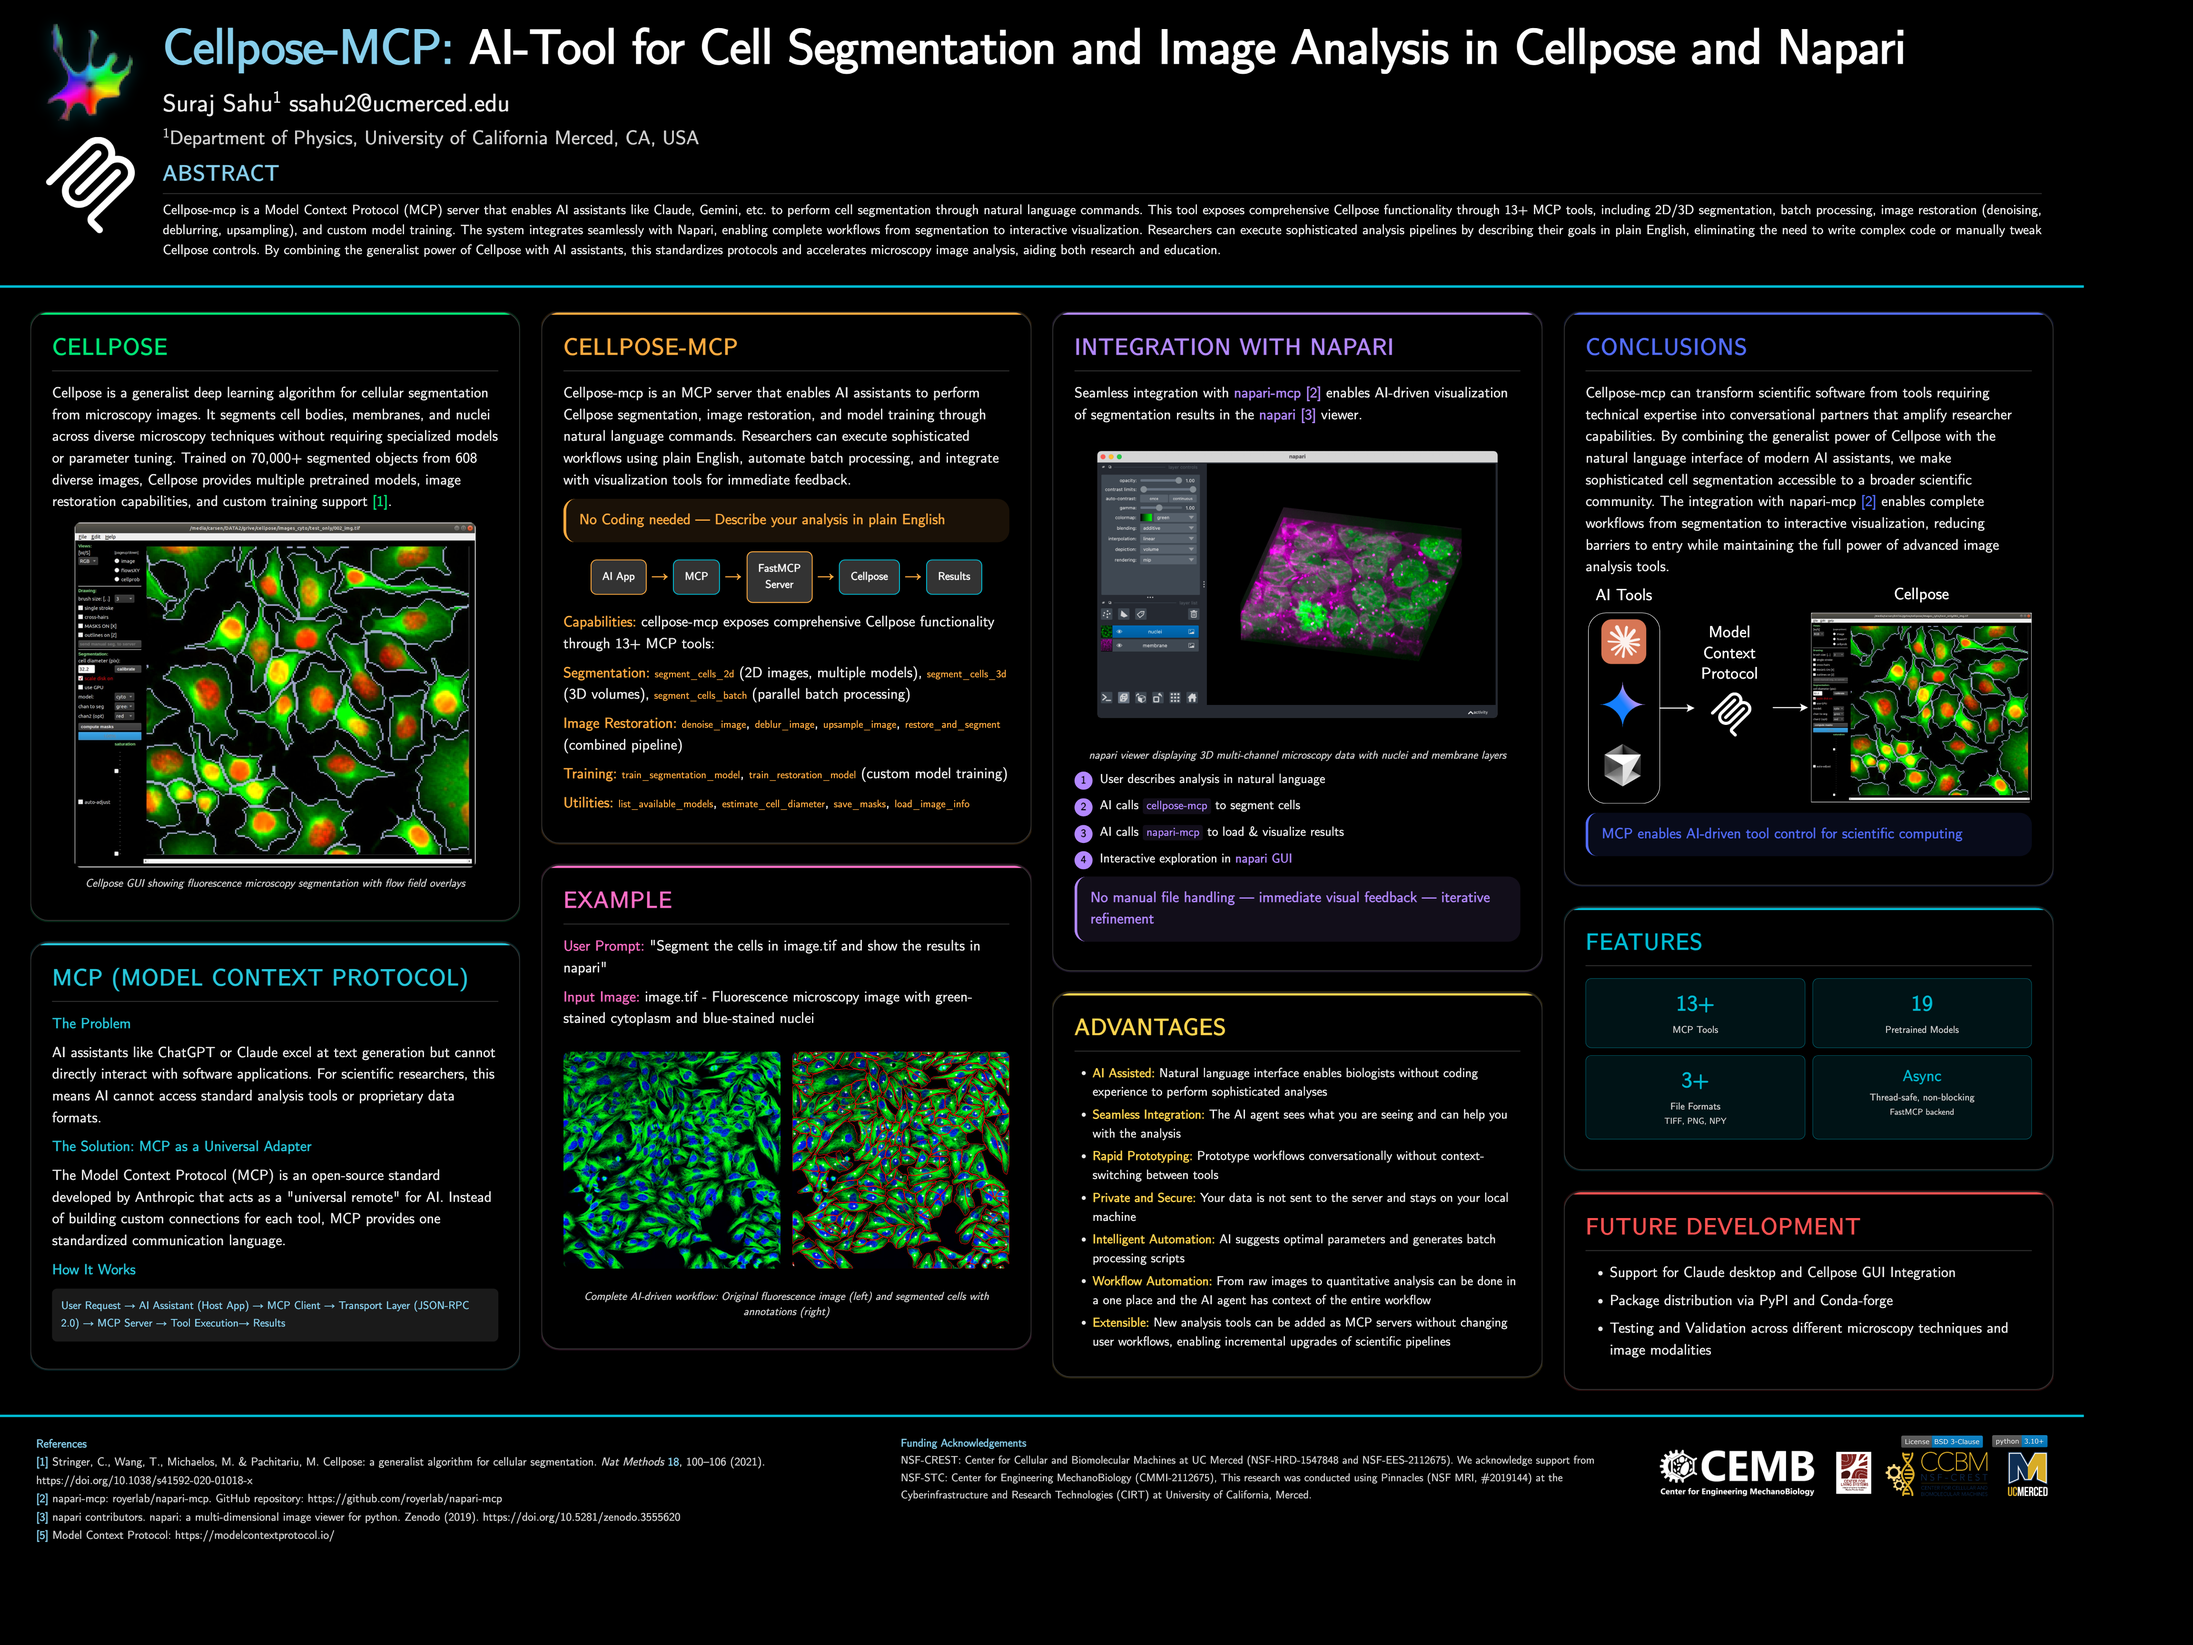
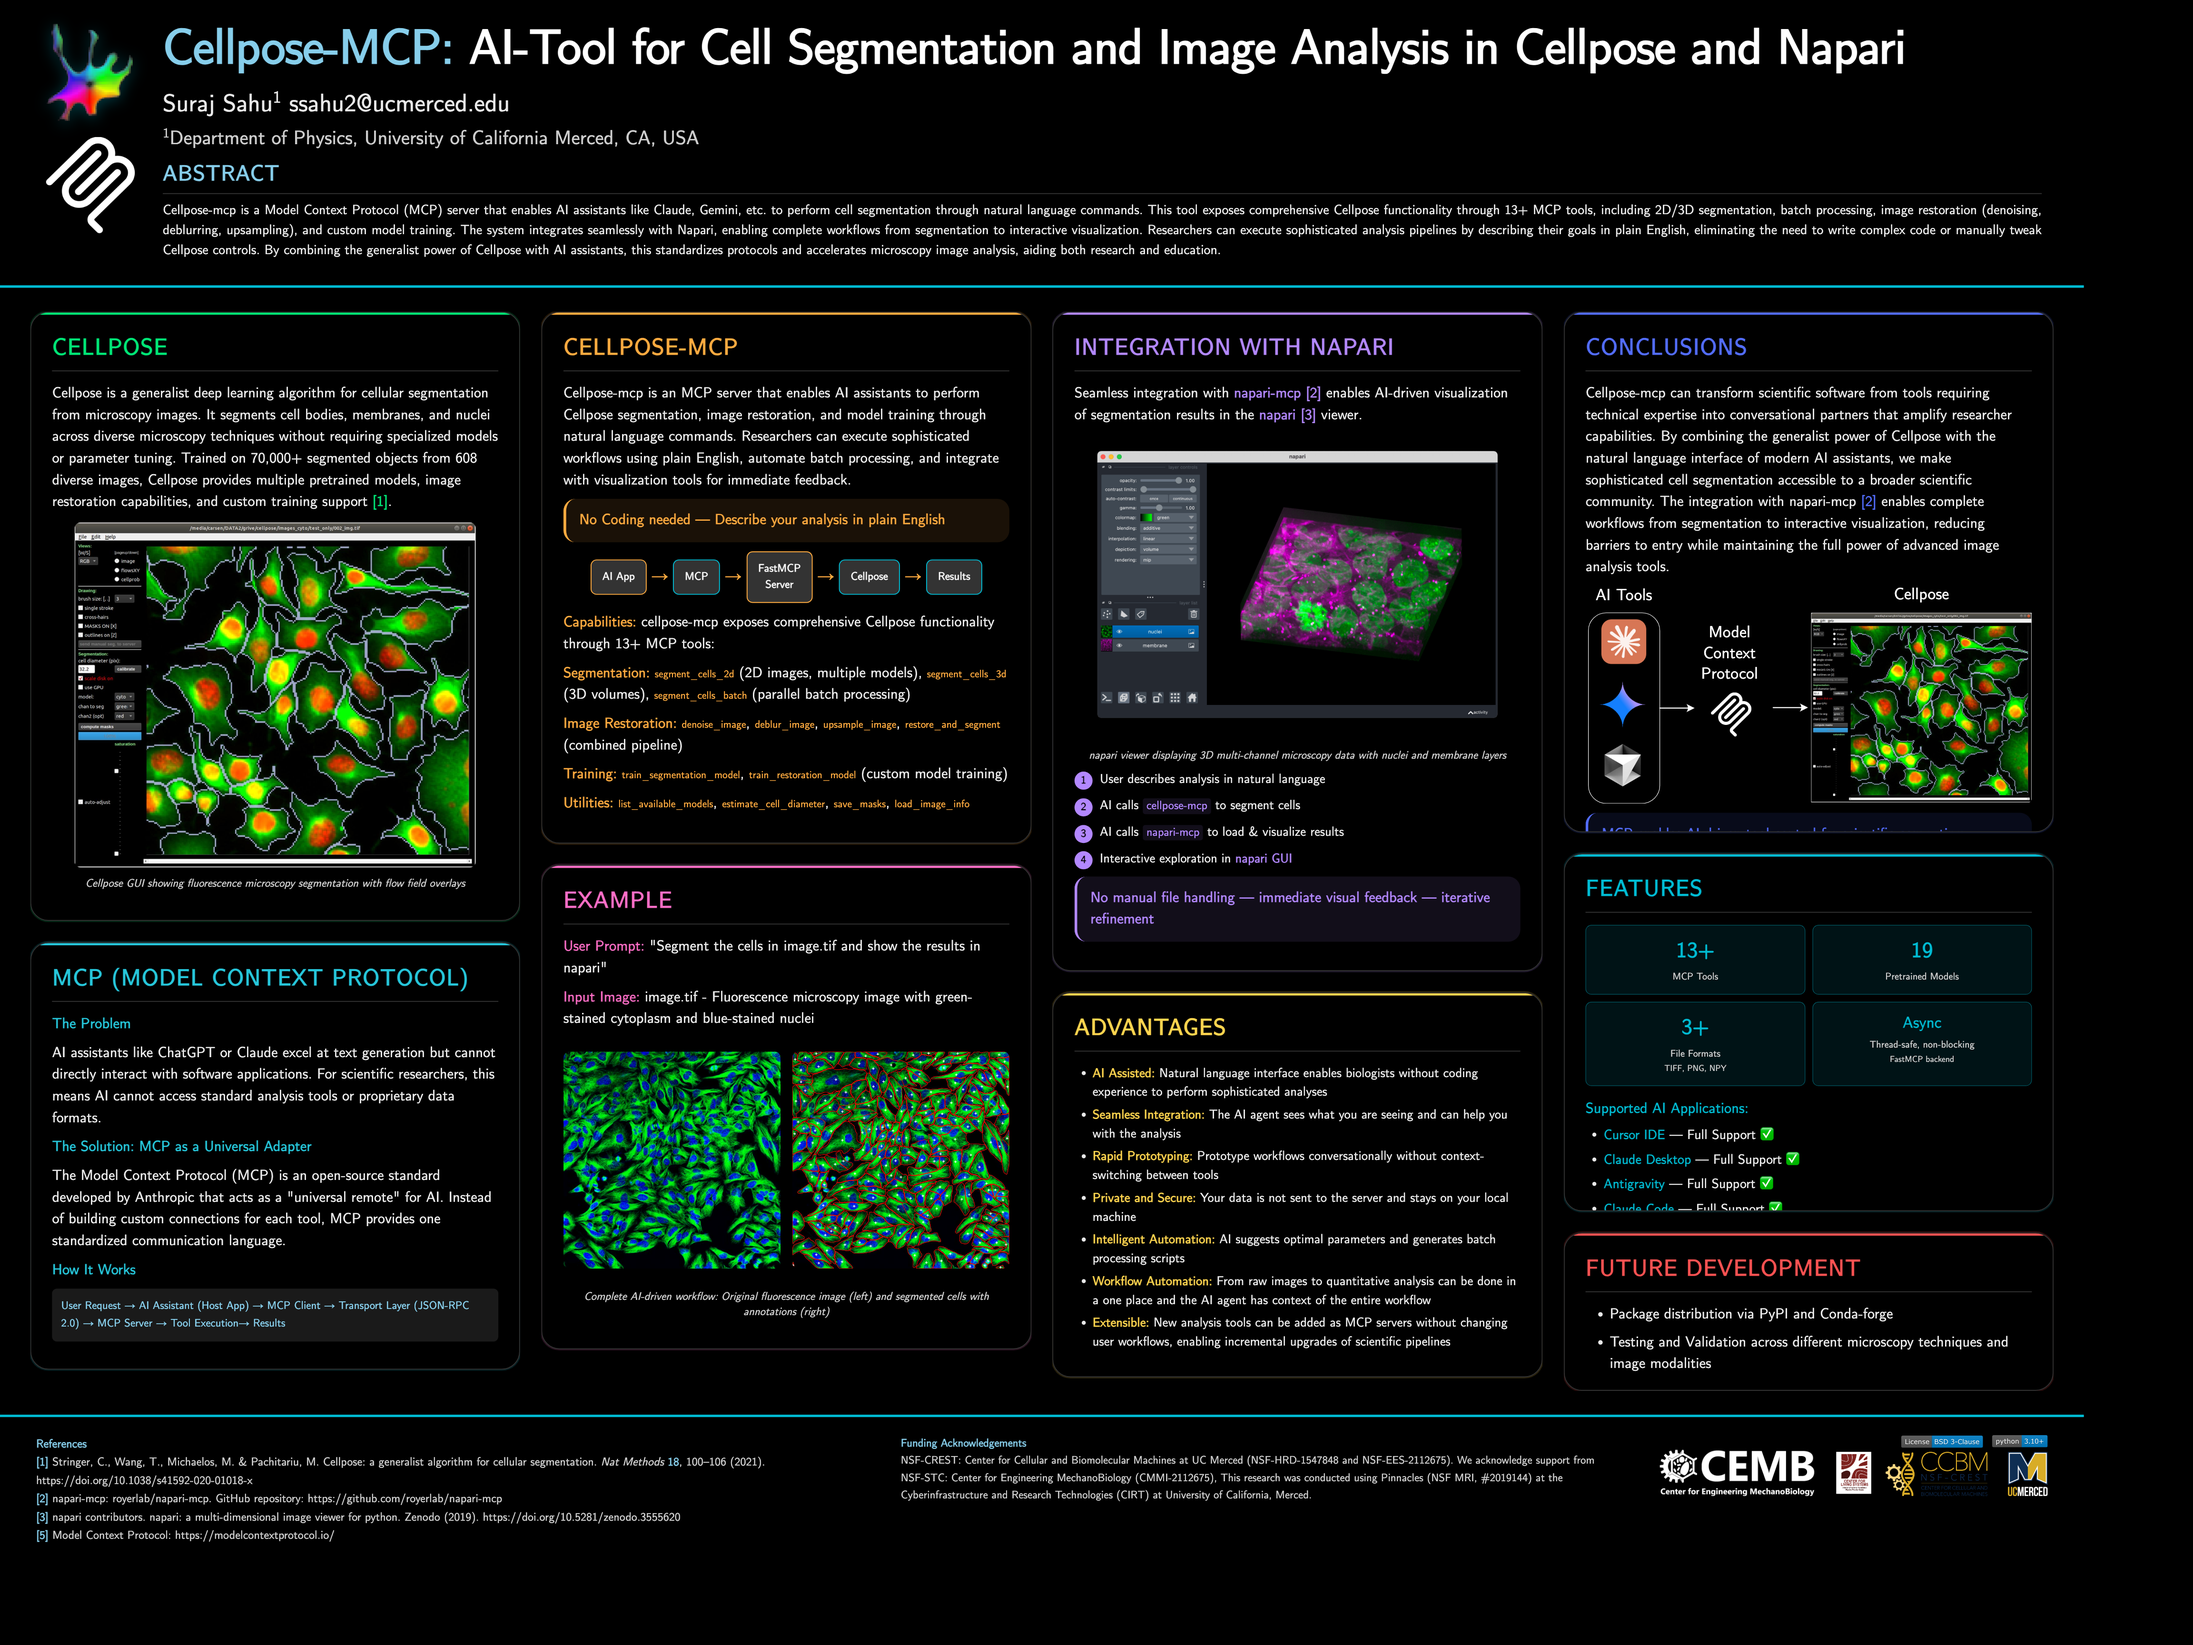
Update poster to reflect current AI application support
- Move Claude Desktop, Cursor IDE, Antigravity, and Claude Code from Future Development to Features section
- All four applications now show "Full Support" status
- Remove outdated "Support for Claude desktop" from Future Development
- Regenerate poster PNG with updated content

Changed region(s): [[0.7188, 0.5, 0.9375, 0.8438], [0.8438, 0.5938, 0.9062, 0.6875]]

diff --git a/poster/cellpose_mcp_poster.html b/poster/cellpose_mcp_poster.html
@@ -947,6 +947,14 @@
               <span class="stat-label">Thread‑safe, non‑blocking<br><span style="font-size:14pt;">FastMCP backend</span></span>
             </div>
           </div>
+          
+          <p style="margin-top: 20pt; margin-bottom: 10pt;"><b>Supported AI Applications:</b></p>
+          <ul style="margin: 0; padding-left: 30pt;">
+            <li style="font-size: 22pt; margin-bottom: 8pt;"><b>Cursor IDE</b> — Full Support ✅</li>
+            <li style="font-size: 22pt; margin-bottom: 8pt;"><b>Claude Desktop</b> — Full Support ✅</li>
+            <li style="font-size: 22pt; margin-bottom: 8pt;"><b>Antigravity</b> — Full Support ✅</li>
+            <li style="font-size: 22pt; margin-bottom: 8pt;"><b>Claude Code</b> — Full Support ✅</li>
+          </ul>
         </div>
       </div>
 
@@ -955,7 +963,6 @@
         <h2 class="block-title">Future Development</h2>
         <div class="block-content">
           <ul>
-            <li>Support for Claude desktop and Cellpose GUI Integration </li>
             <li>Package distribution via PyPI and Conda-forge</li>
             <li>Testing and Validation across different microscopy techniques and image modalities</li>
           </ul>
